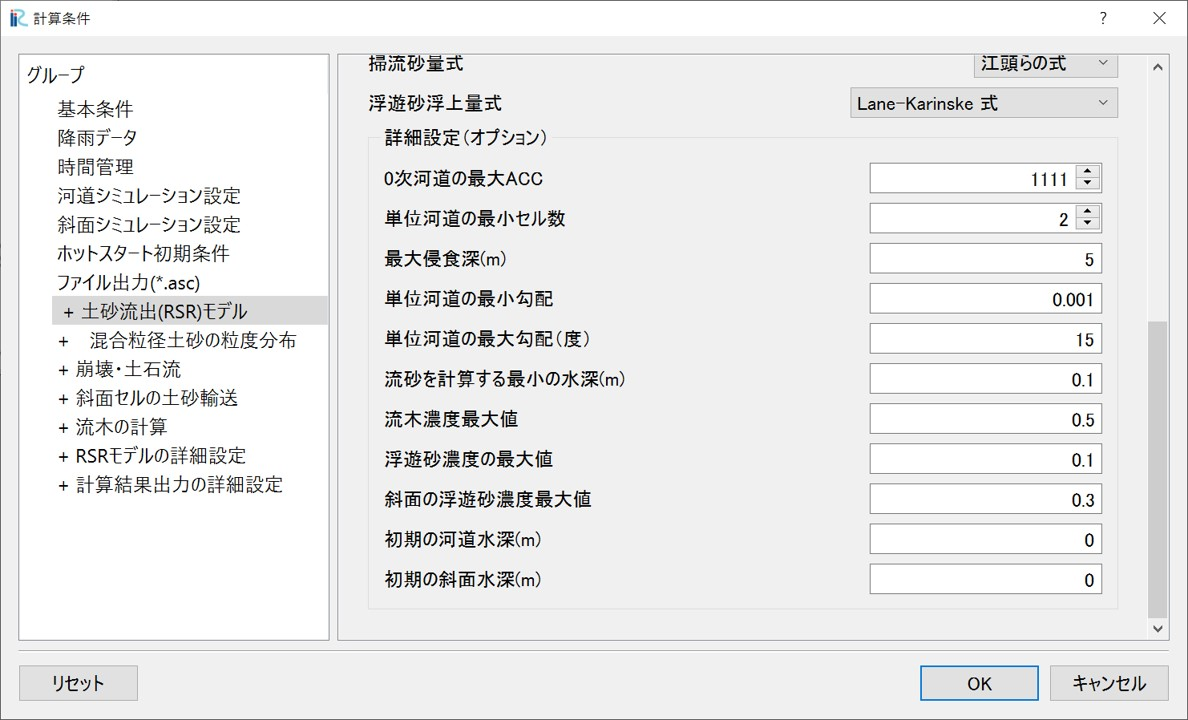
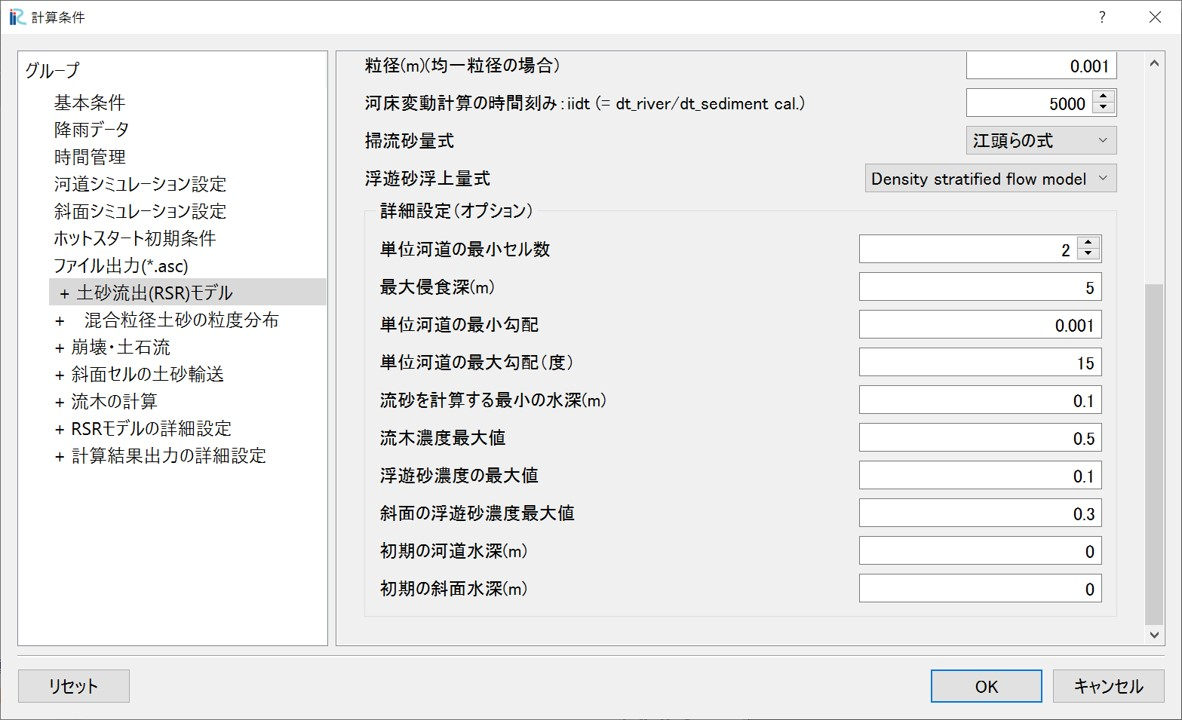
v17.30

Changed region(s): [[0.0, 0.0, 1.0, 0.9778], [0.9746, 0.0, 1.0, 0.0306], [0.9137, 0.0, 0.9442, 0.0306]]

diff --git a/source/02/06_rsr.rst b/source/02/06_rsr.rst
@@ -4,7 +4,9 @@
 6.1. 降雨-土砂流出(RSR)モデルの概要
 --------------------------------------------------
 
-RRIモデルで解析した斜面と河道の水理量に関する情報を用いて、単位河道モデルによって流域全体の水・土砂・流木の輸送を解析するモデルです。
+RRIモデルで解析した斜面と河道の水理量に関する情報を用いて、RRIモデルの河道セルの合流点間を「単位河道」とする
+単位河道モデルによって流域全体の水・土砂・流木の輸送を解析するモデルです。
+単位河道モデルを用いず、それぞれのセルで流砂・河床変動の計算を行うことも可能です。
 基礎方程式等、より詳細な情報については参考文献を参照してください。なお、RSRモデルは開発中であり、逐次アップデートされる予定です。
 
 

diff --git a/source/03_examples.rst b/source/03_examples.rst
@@ -6,3 +6,4 @@ Examples:
 
    03/example_1
    03/example_2
+   03/example_3
